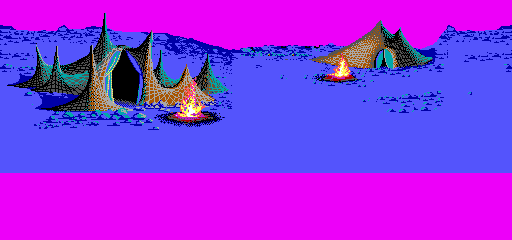
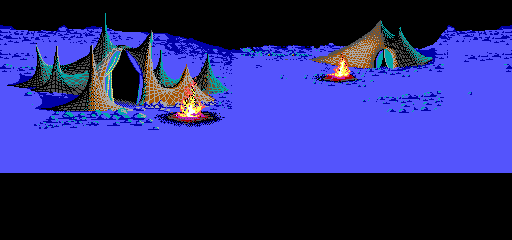
Spanish charset. Working on Act1seq5.

diff --git a/src/texts.c b/src/texts.c
@@ -7,21 +7,21 @@ const char **dialog[] =
     // Act 1, Sequence 1
     (const char *[])
     {
-        "Es tarde, Linus|Y uno no debe llegar tarde|a su cumpleanos", "It's late, Linus|And you shouldn' be late|at your birthday", // 0 - First dialog, start
-        "He tenido el sueno|mas extano, madre", "I have had the strangest|dream, mother",
+        "Es tarde, Linus|Y uno no debe llegar tarde|a su cumplea^os", "It's late, Linus|And you shouldn' be late|at your birthday", // 0 - First dialog, start
+        "He tenido el sue^o|mas exta^o, madre", "I have had the strangest|dream, mother",
         "Un cisne venia a|mi cuarto, y...", "A swan came to my room|and...",
         "Luego me lo cuentas|Xander nos espera", "You can tell me later|Xander is wating for us",
         "Por fin|estas despierto, Linus", "At last,|you're awake Linus",
-        "Perdoname, maestro|Un extrano sueno me ha|mantenido despierto", "Forgive me, master|A strange dream has|kept me awake",
-        "Ciertamente eres el|hijo de tu padre.|Aiden tenia grandes suenos,", "You are certainly your|father's son.|Aiden had big dreams,",
+        "Perdoname, maestro|Un extrano sue^o me ha|mantenido despierto", "Forgive me, master|A strange dream has|kept me awake",
+        "Ciertamente eres el|hijo de tu padre.|Aiden tenia grandes sue^os,", "You are certainly your|father's son.|Aiden had big dreams,",
         "y estamos aqui para hablar|sobre uno que|nunca llego a cumplir", "and we are here to talk|about one that he|never achieved",
-        "He leido sus historias|mil veces|De cual hablamos?", "I've read his stories a thousand times|Which one is this?",
+        "He leido sus historias|mil veces|<De cual hablamos?", "I've read his stories a thousand times|Which one is this?",
         "Una que no encontraras en|un libro. La de la isla|del gremio de los Tejedores", "One you won't find in a book|The one about Weavers|guild island",
         "La leyenda de los Tejedores|siempre fue mi favorita", "Weavers legend was always|my favourite",  // 10
         "Para el no era una leyenda|Los pastores la cantaban|como cierta","That was no legend for him|Shepards sang it as a fact",
         "Tu padre queria encontrarla", "Your father wanted to find it",
         "Nuestro destino es|documentar hechos|No perseguirlos", "Our destiny is to|document facts|Not to chase them",
-        "Linus tiene diecisiete anos|Esa era mi edad cuando|viaje por el mundo", "Linus is seventeen|That was my age when|I traveled the world",
+        "Linus tiene diecisiete a^os|Esa era mi edad cuando|viaje por el mundo", "Linus is seventeen|That was my age when|I traveled the world",
         "Y la edad de su padre cuando|llego aqui", "And his father's age when|he came to us",
         "Un ano antes de que|le acogieramos|como uno de los nuestros", "A year before we|took him as one of ours",
         "Pero...", "But...",
@@ -32,8 +32,8 @@ const char **dialog[] =
     // Act 1, Sequence 2 (intro)
     (const char *[])
     {
-        "Gremio de los historiadores|Ano 8121", "Historians guild|Year 8121", // 0 - Intro, start
-        "Lunes|Primera hora de la manana", "Monday|Early morning",
+        "Gremio de los historiadores|A^o 8121", "Historians guild|Year 8121", // 0 - Intro, start
+        "Lunes|Primera hora de la ma^ana", "Monday|Early morning",
         NULL
     }
     // ... Add more text arrays for each act and sequence combination

diff --git a/src/act_1.c b/src/act_1.c
@@ -1,18 +1,17 @@
 #include <genesis.h>
 #include "globals.h"
 
-void start_act_1(void)
+void act_1_scene_1(void)
 {
     VDP_loadTileSet(&historians_front_tile, tile_ind, DMA);
-    bg_historians_front = MAP_create(&historians_front_map, BG_A, TILE_ATTR_FULL(PAL0, false, false, false, tile_ind));
+    background_BGA = MAP_create(&historians_front_map, BG_A, TILE_ATTR_FULL(PAL0, false, false, false, tile_ind));
     tile_ind += historians_front_tile.numTile;
 
     VDP_loadTileSet(&historians_bg_tile, tile_ind, DMA);
-    bg_historians_back = MAP_create(&historians_bg_map, BG_B, TILE_ATTR_FULL(PAL0, false, false, false, tile_ind));
+    background_BGB = MAP_create(&historians_bg_map, BG_B, TILE_ATTR_FULL(PAL0, false, false, false, tile_ind));
     tile_ind += historians_bg_tile.numTile;
 
-    background_BGA=bg_historians_front;
-    background_BGB=bg_historians_back;
+    PAL_setPalette(PAL0, historians_pal.data, DMA); // Backgrounds palette
 
     MAP_scrollTo(background_BGA, 0, 0);
     MAP_scrollTo(background_BGB, 0, 0);
@@ -64,3 +63,22 @@ void start_act_1(void)
     }
 }
 
+
+
+void act_1_scene_5(void)
+{
+    VDP_loadTileSet(&weavers_front_tile, tile_ind, DMA);
+    background_BGA = MAP_create(&weavers_front_map, BG_A, TILE_ATTR_FULL(PAL0, false, false, false, tile_ind));
+    tile_ind += weavers_front_tile.numTile;
+
+    VDP_loadTileSet(&weavers_bg_tile, tile_ind, DMA);
+    background_BGB = MAP_create(&weavers_bg_map, BG_B, TILE_ATTR_FULL(PAL0, false, false, false, tile_ind));
+    tile_ind += weavers_bg_tile.numTile;
+
+    PAL_setPalette(PAL0, weavers_pal.data, DMA); // Backgrounds palette
+
+    MAP_scrollTo(background_BGA, 0, 0);
+    MAP_scrollTo(background_BGB, 0, 0);
+
+    update_bg();   
+}

diff --git a/src/init.c b/src/init.c
@@ -21,6 +21,9 @@ void init(void)
     VDP_setScreenWidth320();
     VDP_setScreenHeight224();
 
+    // Load font
+    VDP_loadFont(font.tileset, DMA);
+
     // Initialize globals
     tile_ind = TILE_USER_INDEX;
 
@@ -31,7 +34,6 @@ void init(void)
     VDP_setWindowVPos(TRUE, 22);
 
     // Initialize palettes
-    PAL_setPalette(PAL0, bg_pal.data, DMA); // Backgrounds palette
     PAL_setPalette(PAL1, linus_sprite.palette->data, DMA); // Characters palette
     PAL_setPalette(PAL2, interface_pal.data, DMA); // Interface palette
 

diff --git a/res/res_backgrounds.h b/res/res_backgrounds.h
@@ -5,9 +5,11 @@ extern const TileSet historians_front_tile;
 extern const MapDefinition historians_front_map;
 extern const TileSet historians_bg_tile;
 extern const MapDefinition historians_bg_map;
+extern const Palette historians_pal;
 extern const TileSet weavers_front_tile;
 extern const MapDefinition weavers_front_map;
 extern const TileSet weavers_bg_tile;
 extern const MapDefinition weavers_bg_map;
+extern const Palette weavers_pal;
 
 #endif // _RES_RES_BACKGROUNDS_H_

diff --git a/src/act_1.h b/src/act_1.h
@@ -1,13 +1,9 @@
 #ifndef _ACT1_H_
 #define _ACT1_H_
 
-// Maps
-Map *bg_historians_front; // Historians background (front)
-Map *bg_historians_back; // Historians background (back)
 
-
-void start_act_1(void);
-
+void act_1_scene_1(void);
+void act_1_scene_5(void);
 
 
 #endif

diff --git a/res/resources.h b/res/resources.h
@@ -2,7 +2,7 @@
 #define _RES_RESOURCES_H_
 
 extern const Palette interface_pal;
-extern const Palette bg_pal;
 extern const SpriteDefinition button_A_sprite;
+extern const Image font;
 
 #endif // _RES_RESOURCES_H_

diff --git a/src/main.c b/src/main.c
@@ -6,5 +6,5 @@ int main(bool hard)
 {
     init();
 
-    start_act_1();
+    act_1_scene_1();
 }
